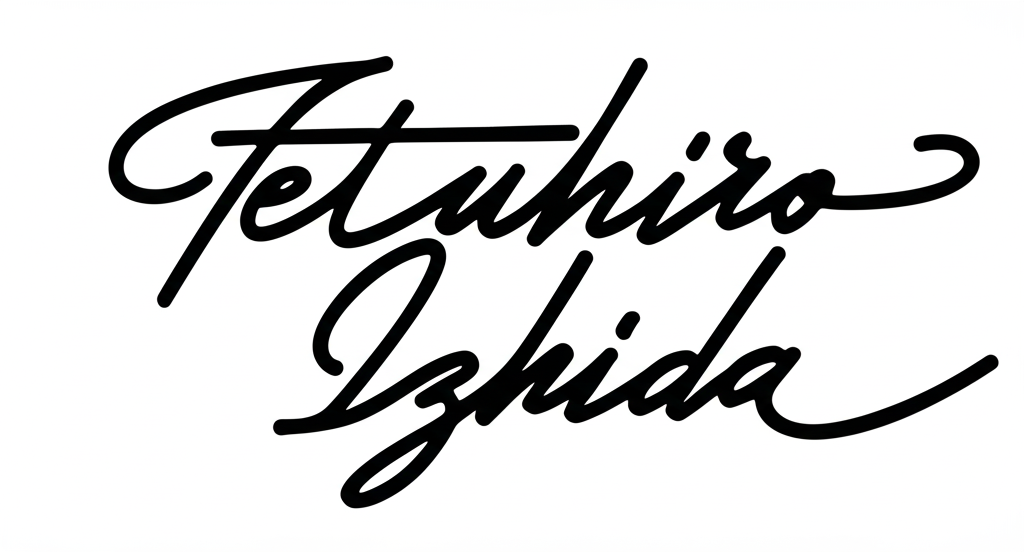
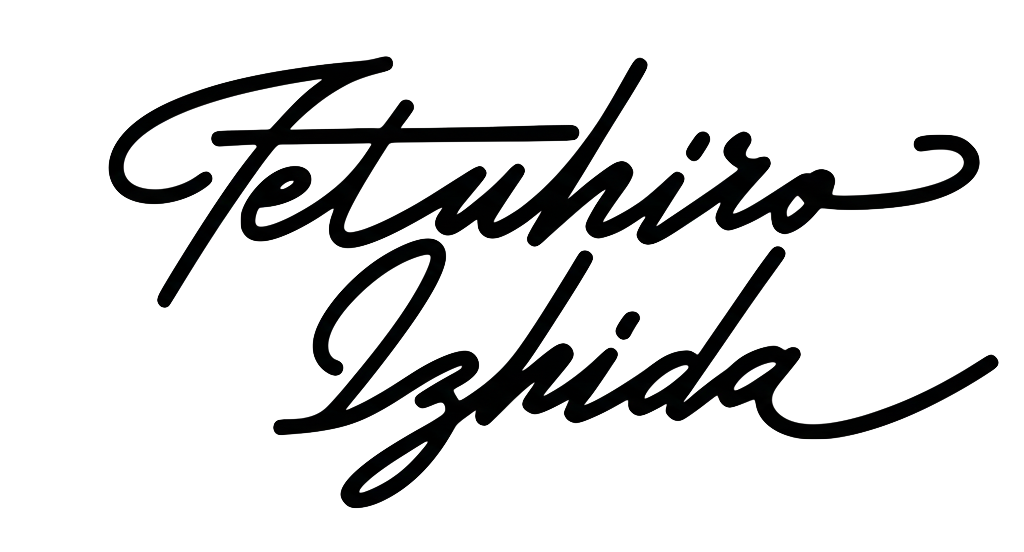
Remove CSS filters and use transparent signature image

diff --git a/index.html b/index.html
@@ -204,8 +204,6 @@
             max-height: 80%;
             object-fit: contain;
             opacity: 1;
-            filter: contrast(1000%) brightness(0%) invert(1);
-            mix-blend-mode: multiply;
         }
         .intro-text {
             max-width: 720px;
